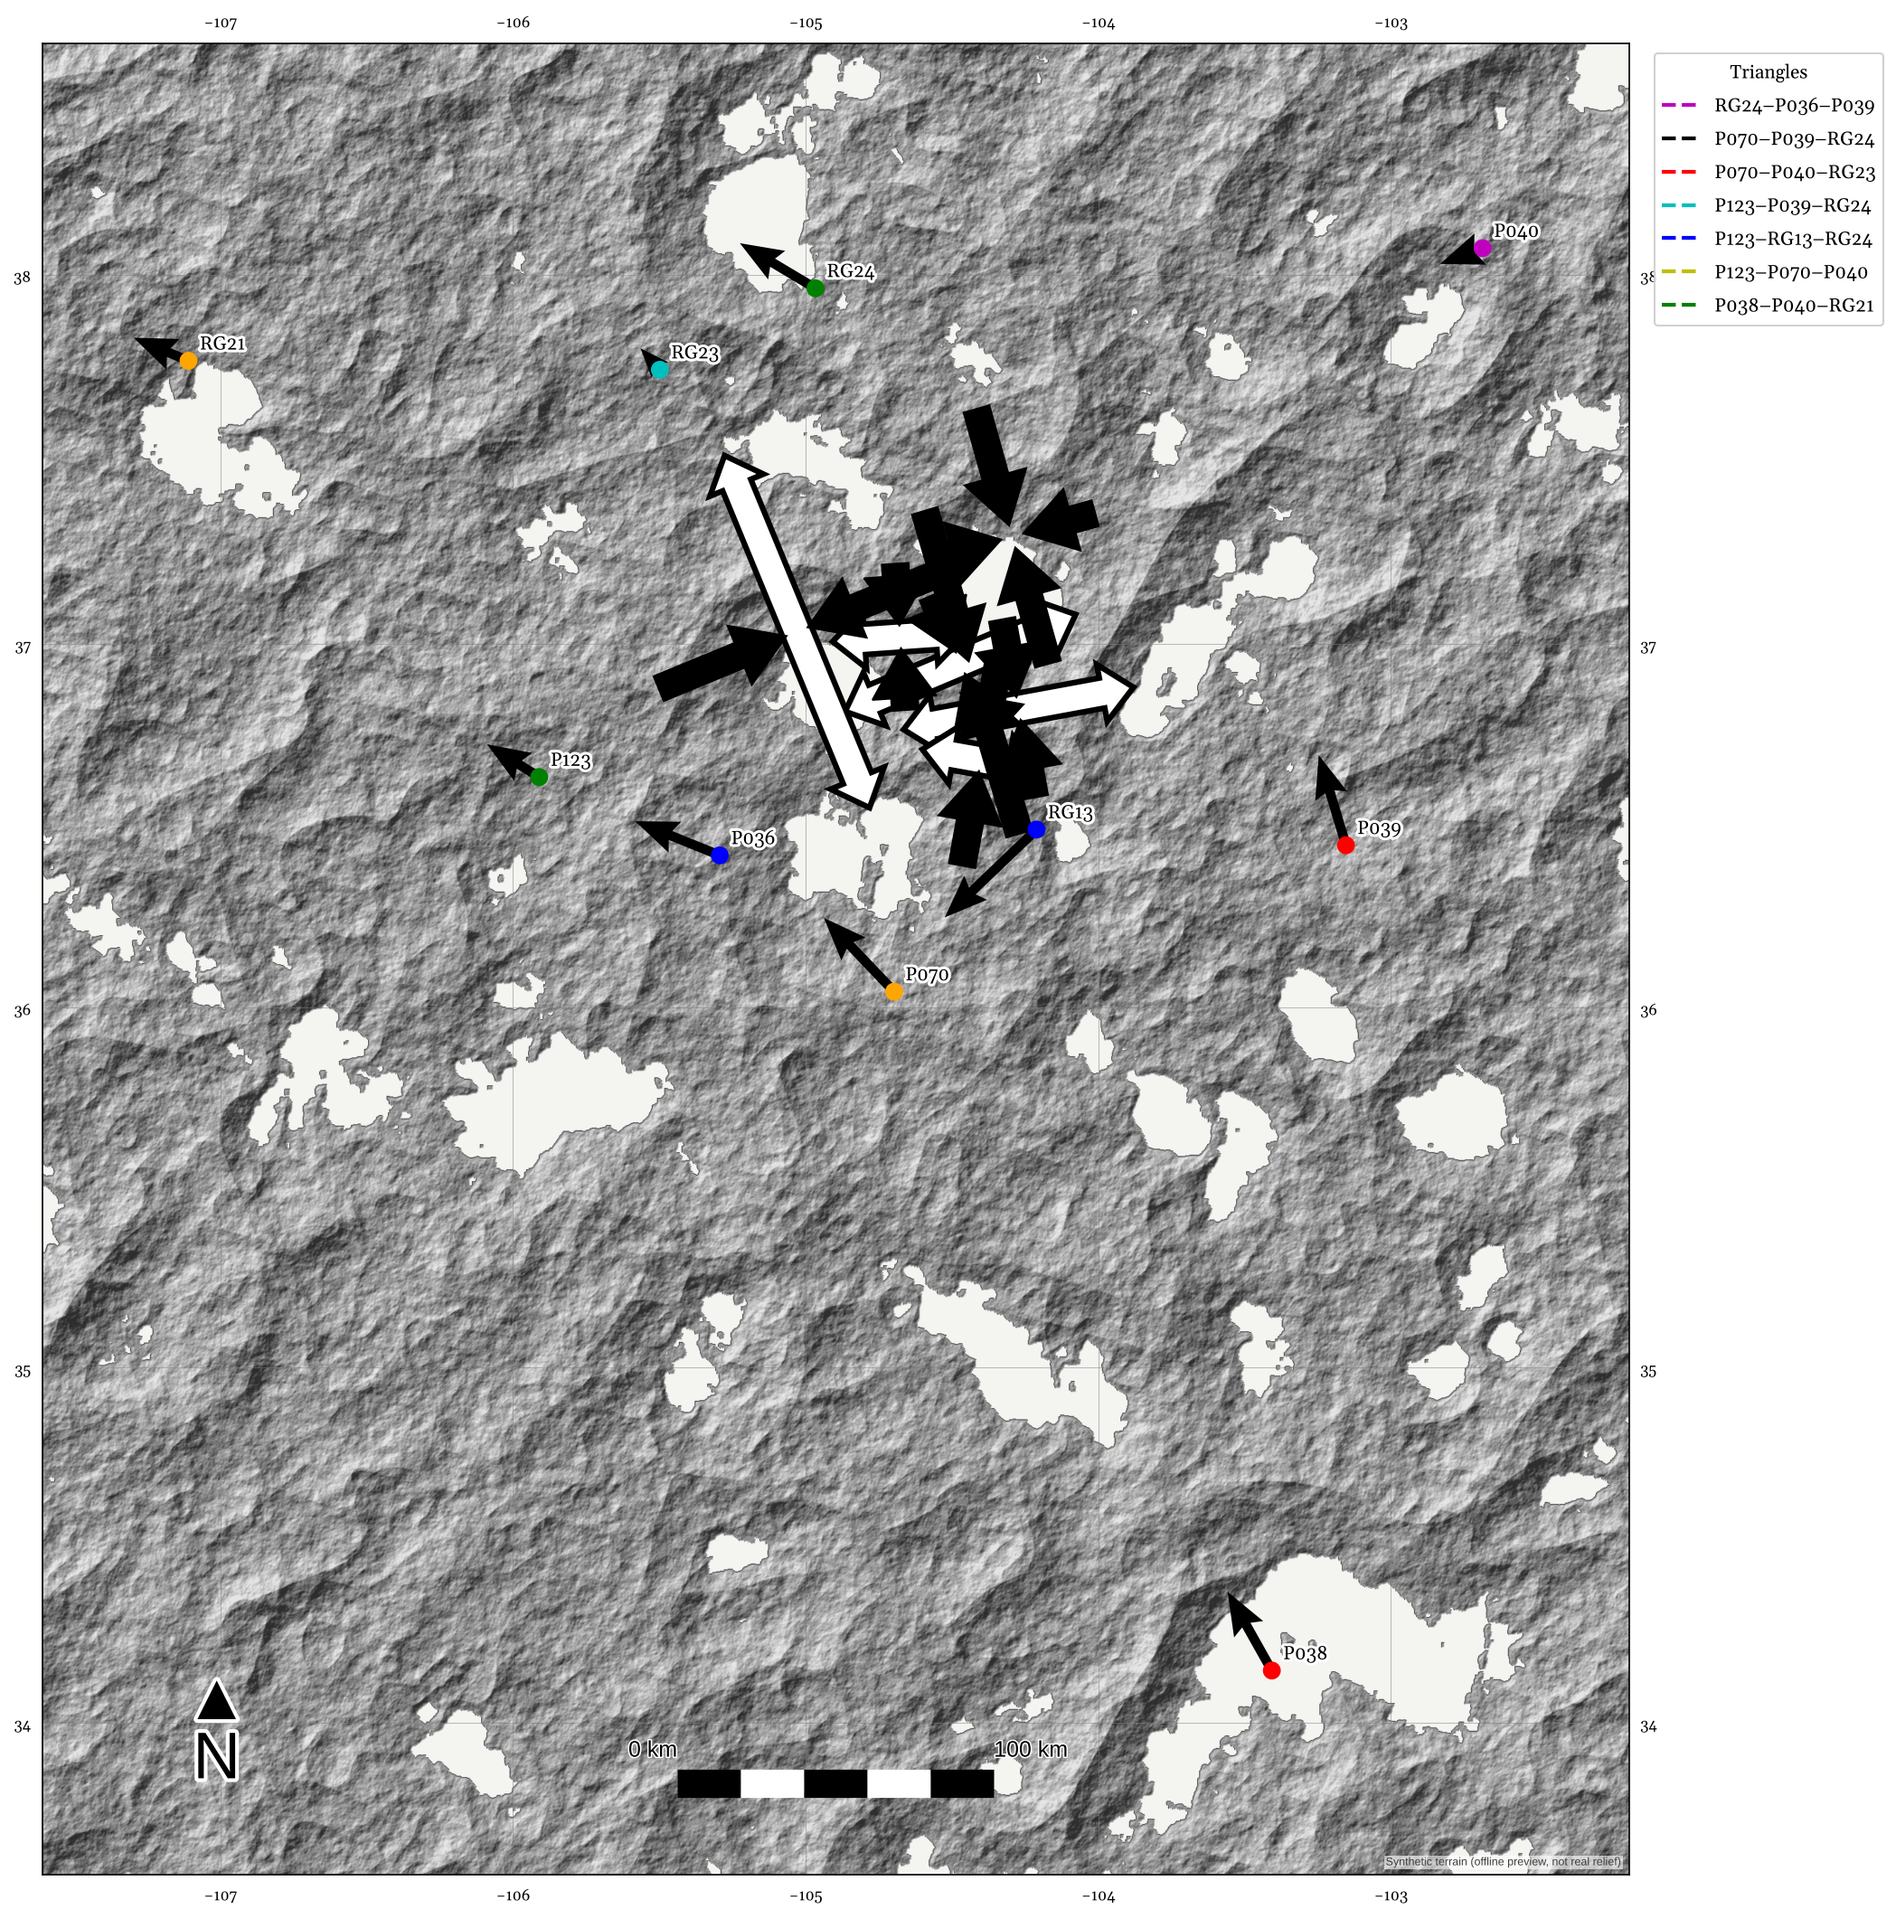
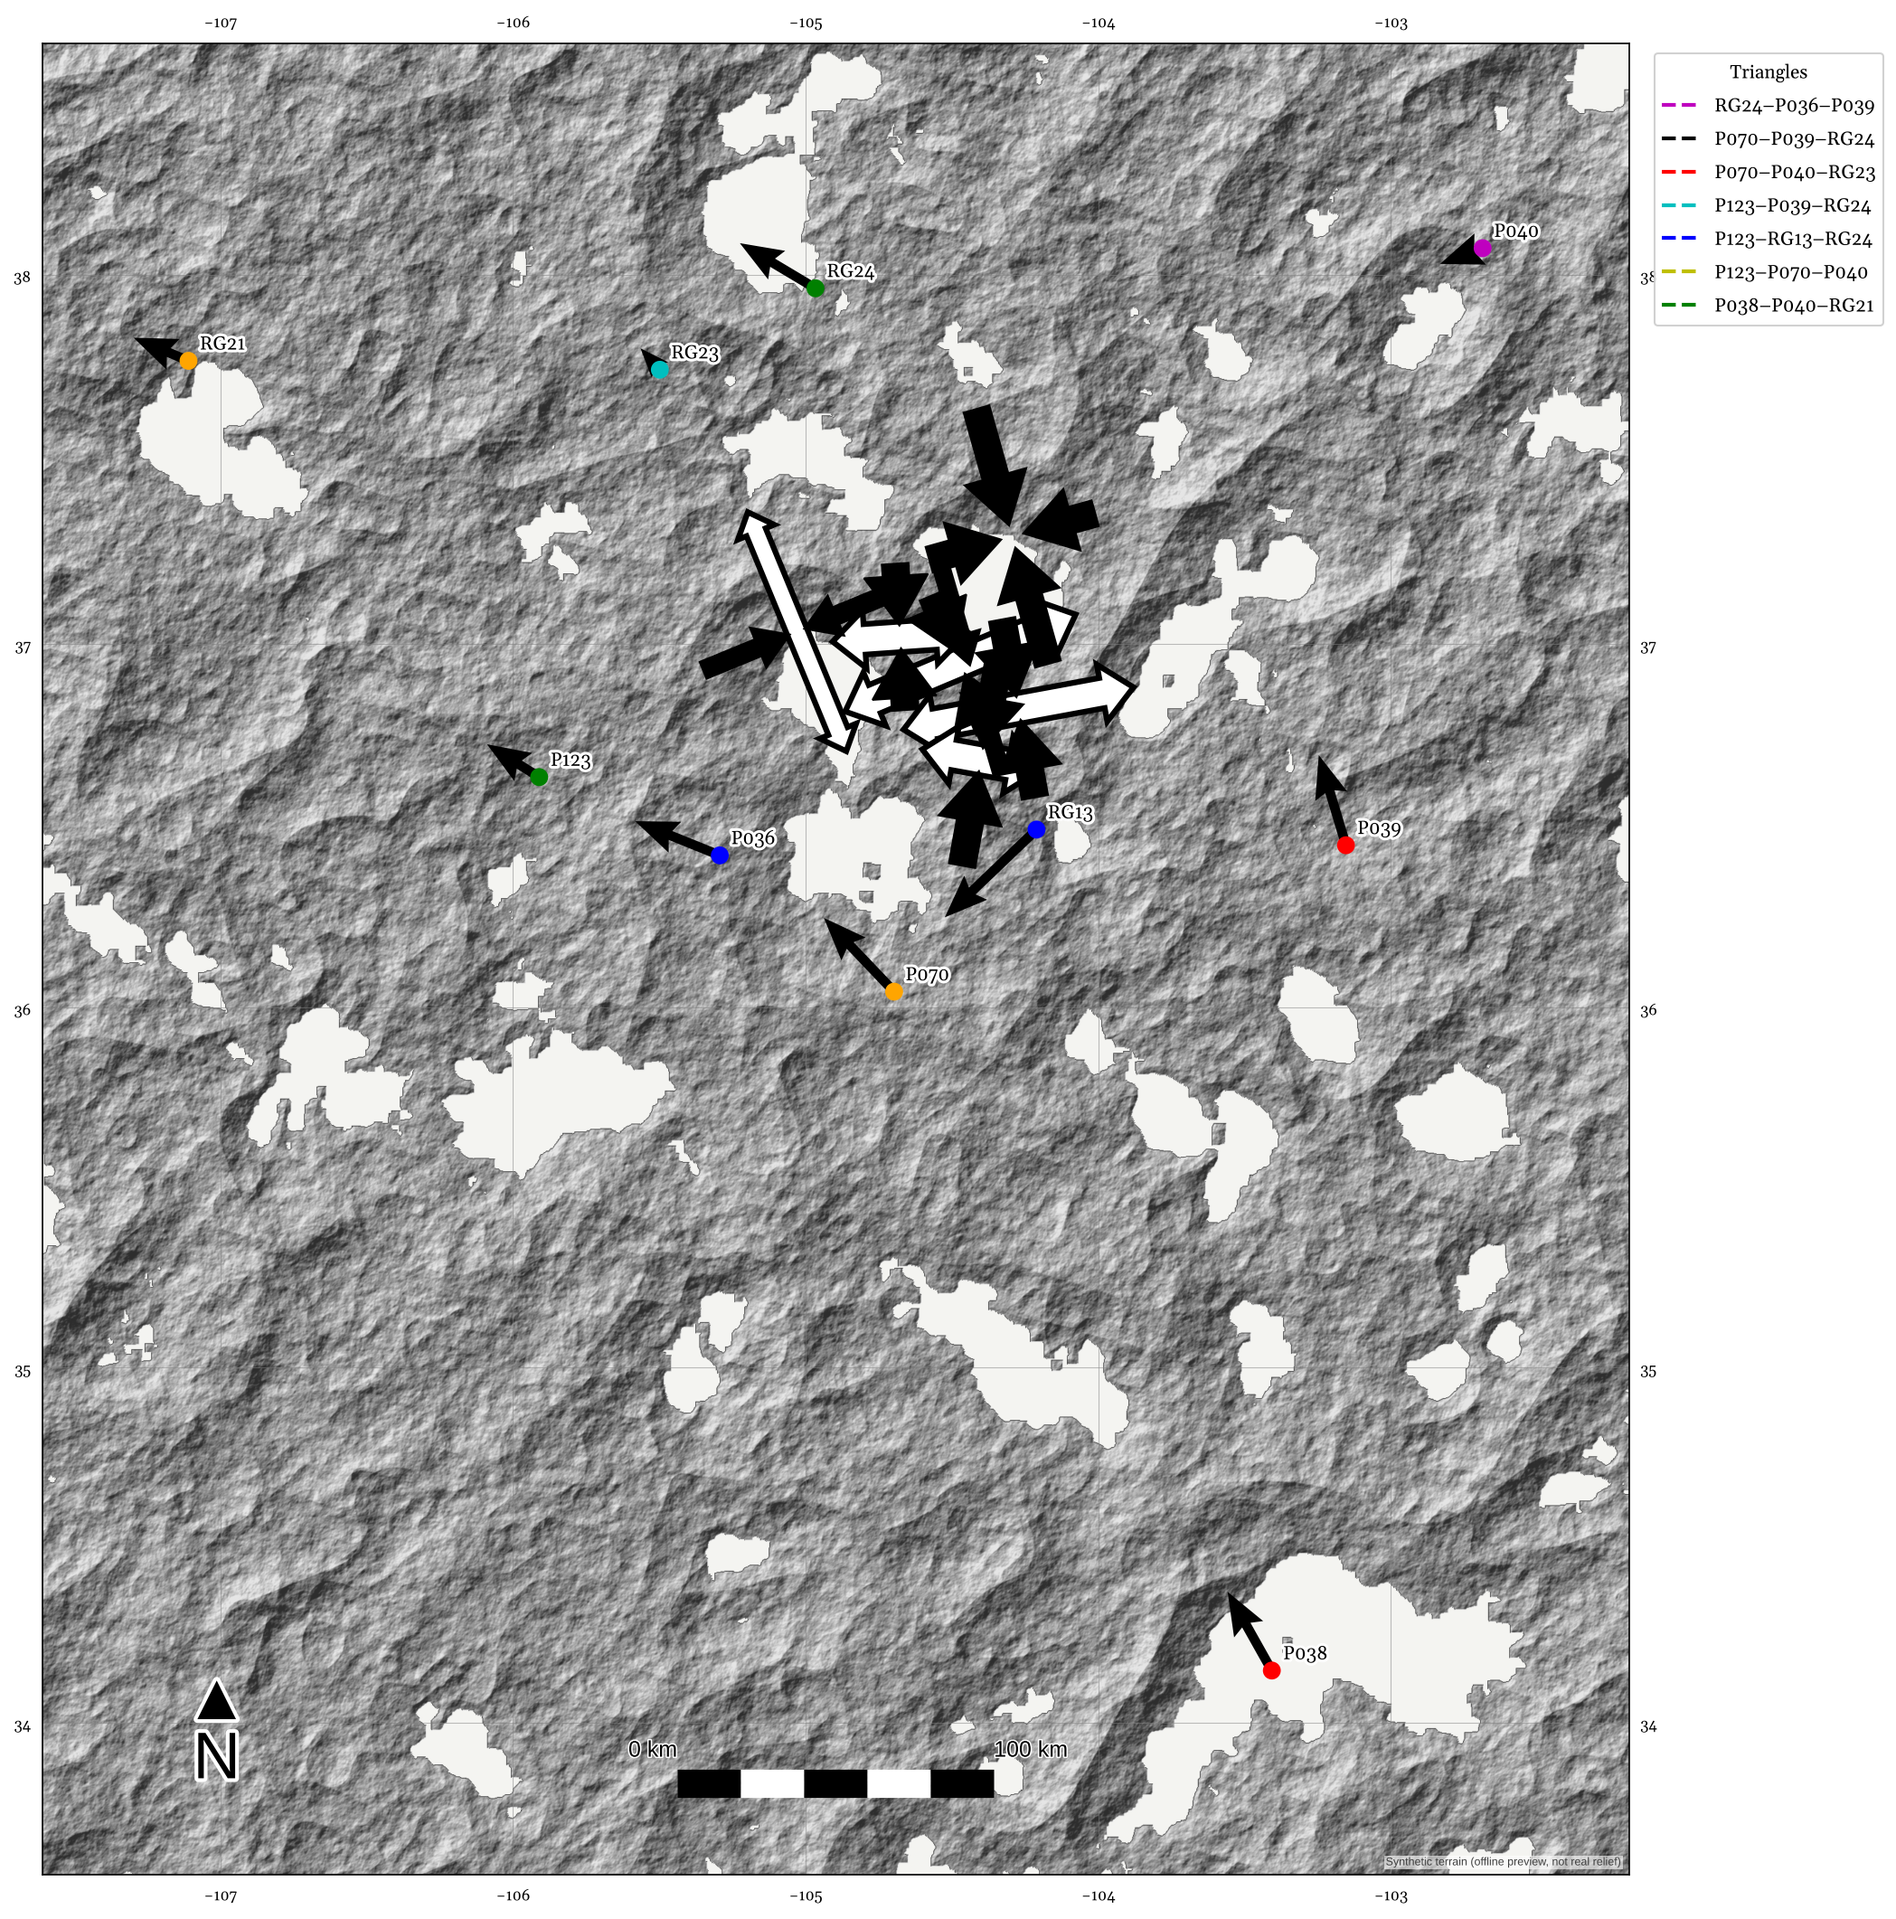
Network maps: shrink each ellipse/symbol to fit inside its own triangle
A network map shows many triangles at once, so it cannot zoom in for each
one. Each strain ellipse (and strain symbol) is now drawn smaller where
needed to stay inside its own triangle, keeping the shared strain scale
(one exaggeration for all ellipses). fit=False restores the old sizes.
Fit helpers refactored: ellipse_max_radius / symbol_max_size work in map
units and the sheet-level *_fit_width functions build on them. New test.

Claude-Session: https://claude.ai/code/session_01BU2pKHPdGdyvmdknMjFwGi

diff --git a/src/gps_strain/plotting.py b/src/gps_strain/plotting.py
@@ -322,24 +322,24 @@ def _sides_from_centroid(x, y):
     return out
 
 
-def ellipse_fit_width(result: StrainResult, table, frac=ELLIPSE_FRAC, margin=FIT_MARGIN):
-    """Largest map width (Web Mercator metres) at which the strain ellipse,
-    drawn with radius ``frac`` x map width at the centroid, stays inside the
-    station triangle. Uses the ellipse's support function: the drawing
-    (initial circle and deformed ellipse F = I + kE) reaches ``R max(1,
-    |F^T n|)`` toward a side with outward normal n."""
-    x, y = bm.lonlat_to_merc(table["lon"].to_numpy(float), table["lat"].to_numpy(float))
-    F = np.eye(2) + exaggeration_for(result) * result.strain_tensor
-    widths = [d / (frac * max(1.0, float(np.linalg.norm(F.T @ n))) * margin)
-              for n, d in _sides_from_centroid(x, y)]
-    return min(widths) if widths else None
+def ellipse_max_radius(result: StrainResult, x, y, exaggeration=None, margin=FIT_MARGIN):
+    """Largest ellipse radius (map units) that keeps the drawing inside the
+    station polygon (x, y in map units) when centred on the centroid.
+
+    Uses the ellipse's support function: the initial circle and the deformed
+    ellipse F = I + kE reach ``R max(1, |F^T n|)`` toward a side with
+    outward normal n.
+    """
+    k = exaggeration or exaggeration_for(result)
+    F = np.eye(2) + k * result.strain_tensor
+    radii = [d / (max(1.0, float(np.linalg.norm(F.T @ n))) * margin) for n, d in _sides_from_centroid(x, y)]
+    return min(radii) if radii else None
 
 
-def symbol_fit_width(result: StrainResult, table, min_strain=0.1, max_strain=300.0,
-                     frac=SYMBOL_FRAC, margin=FIT_MARGIN):
-    """Largest map width at which the strain-rate symbol stays inside the
-    triangle (the symbol treated as a circle of its largest arm)."""
-    x, y = bm.lonlat_to_merc(table["lon"].to_numpy(float), table["lat"].to_numpy(float))
+def symbol_max_size(result: StrainResult, x, y, min_strain=0.1, max_strain=300.0, margin=FIT_MARGIN):
+    """Largest symbol ``size`` (see :func:`draw_strain_symbol`) that keeps the
+    strain-rate symbol inside the station polygon (treated as a circle of its
+    longest arm, plus the arrow-head half width)."""
     max_strain = max(max_strain, abs(result.e1) * NANO, abs(result.e2) * NANO)
     reach = 0.0
     for e in (result.e1, result.e2):
@@ -349,8 +349,28 @@ def symbol_fit_width(result: StrainResult, table, min_strain=0.1, max_strain=300
         reach = max(reach, f if e > 0 else f + 0.06)  # contraction arrows start 0.06 out
     if reach == 0:
         return None
-    reach = math.hypot(reach, 0.17)  # arrow-head half width
-    return min(d / (frac * reach * margin) for _, d in _sides_from_centroid(x, y))
+    reach = math.hypot(reach, 0.17)
+    return min(d / (reach * margin) for _, d in _sides_from_centroid(x, y))
+
+
+def _merc_xy(table):
+    return bm.lonlat_to_merc(table["lon"].to_numpy(float), table["lat"].to_numpy(float))
+
+
+def ellipse_fit_width(result: StrainResult, table, frac=ELLIPSE_FRAC, margin=FIT_MARGIN):
+    """Largest map width (Web Mercator metres) at which the strain ellipse,
+    drawn with radius ``frac`` x map width at the centroid, stays inside the
+    station triangle."""
+    r = ellipse_max_radius(result, *_merc_xy(table), margin=margin)
+    return None if r is None else r / frac
+
+
+def symbol_fit_width(result: StrainResult, table, min_strain=0.1, max_strain=300.0,
+                     frac=SYMBOL_FRAC, margin=FIT_MARGIN):
+    """Largest map width at which the strain-rate symbol (half-length ``frac``
+    x map width for 300 nanostrain) stays inside the triangle."""
+    s = symbol_max_size(result, *_merc_xy(table), min_strain, max_strain, margin)
+    return None if s is None else s / frac
 
 
 def draw_triangle_and_sites(ax, table, colors=SITE_COLORS, legend_loc="upper center", ms=10):
@@ -685,14 +705,16 @@ def _stations_union(tables):
 def network_map(results, tables, path=None, kind="symbol", basemap=DEFAULT_BASEMAP,
                 tile_source=None, dem_source=None, bounds=0.5, scale_km=None, tri_colors=None, lines=None,
                 velocities=True, min_strain=0.1, max_strain=None, zoom=None, title=None,
-                figsize=(15, 15), terrain_style=None):
+                figsize=(15, 15), terrain_style=None, fit=True):
     """Several triangles on one map, like the 2021 Raton, NM figures.
 
     ``kind="symbol"`` draws each triangle's strain-rate symbol at its centroid;
     ``kind="ellipse"`` draws each triangle's strain ellipse (outlined in the
-    triangle's colour) with the dashed triangle. All symbols/ellipses share one
-    scale, so sizes are comparable between triangles. Station velocity arrows
-    are drawn once per station.
+    triangle's colour) with the dashed triangle. Symbols and ellipses share one
+    strain scale, so their shapes are comparable between triangles; with
+    ``fit=True`` (default) each one is drawn smaller where needed so it stays
+    inside its own triangle (the map cannot zoom in for every triangle at
+    once). Station velocity arrows are drawn once per station.
     """
     if len(results) != len(tables):
         raise ValueError("results and tables must have the same length")
@@ -728,12 +750,18 @@ def network_map(results, tables, path=None, kind="symbol", basemap=DEFAULT_BASEM
             if lines:
                 ax.plot(np.append(x, x[0]), np.append(y, y[0]), color=c, ls="--", lw=2, alpha=0.6, zorder=20)
             if kind == "ellipse":
-                draw_ellipse(ax, r, center=cen, radius=0.06 * width, exaggeration=kexag, axis_lw=3, zorder=30)
+                rad = 0.06 * width
+                if fit:
+                    rad = min(rad, ellipse_max_radius(r, x, y, exaggeration=kexag) or rad)
+                draw_ellipse(ax, r, center=cen, radius=rad, exaggeration=kexag, axis_lw=3, zorder=30)
                 th = np.linspace(0, 2 * np.pi, 361)
                 E = (np.eye(2) + kexag * r.strain_tensor) @ np.vstack([np.cos(th), np.sin(th)])
-                ax.plot(cen[0] + 0.06 * width * E[0], cen[1] + 0.06 * width * E[1], color=c, lw=2, zorder=34)
+                ax.plot(cen[0] + rad * E[0], cen[1] + rad * E[1], color=c, lw=2, zorder=34)
             else:
-                draw_strain_symbol(ax, r, cen, 0.12 * width, min_strain, mmax)
+                size = 0.12 * width
+                if fit:
+                    size = min(size, symbol_max_size(r, x, y, min_strain, mmax) or size)
+                draw_strain_symbol(ax, r, cen, size, min_strain, mmax)
             handles.append(Line2D([0], [0], color=c, ls="--", lw=2, label="–".join(r.sites)))
         leg = ax.legend(handles=handles, loc="upper left", bbox_to_anchor=(1.01, 1.0),
                         prop={"family": SERIF, "size": 10}, title="Triangles", framealpha=0.9)

diff --git a/tests/test_terrain.py b/tests/test_terrain.py
@@ -287,3 +287,28 @@ def test_wordmark_right_edge_on_map_axis():
     axis_px = ax.get_window_extent().x1
     assert abs(right_px - axis_px) < 2.0
     plt.close("all")
+
+
+def test_network_ellipses_shrink_to_fit_their_own_triangles():
+    import matplotlib.pyplot as plt
+
+    from gps_strain import compute_strain, plotting
+    from gps_strain.data import from_records
+
+    big = from_records(TAHOE)
+    small = from_records([TAHOE[0], TAHOE[1],                     # a smaller triangle inside the map
+                          dict(TAHOE[2], site="P999", lat=39.40, lon=-120.25)])
+    rs = [compute_strain(t, mc_samples=0) for t in (big, small)]
+    fig = plotting.network_map(rs, [big, small], None, kind="ellipse", basemap="none")
+    ax = fig.axes[0]
+    outlines = [ln for ln in ax.lines if ln.get_zorder() == 34]
+    assert len(outlines) == 2
+    width = ax.get_xlim()[1] - ax.get_xlim()[0]
+    radii = []
+    for ln, t in zip(outlines, (big, small)):
+        tx, ty = bm.lonlat_to_merc(t["lon"].to_numpy(float), t["lat"].to_numpy(float))
+        px, py = ln.get_data()
+        assert _inside(np.asarray(px), np.asarray(py), tx, ty)
+        radii.append(np.max(np.hypot(px - tx.mean(), py - ty.mean())))
+    assert radii[1] < radii[0] <= 0.06 * width * 1.3   # only the small triangle's ellipse shrank
+    plt.close("all")
